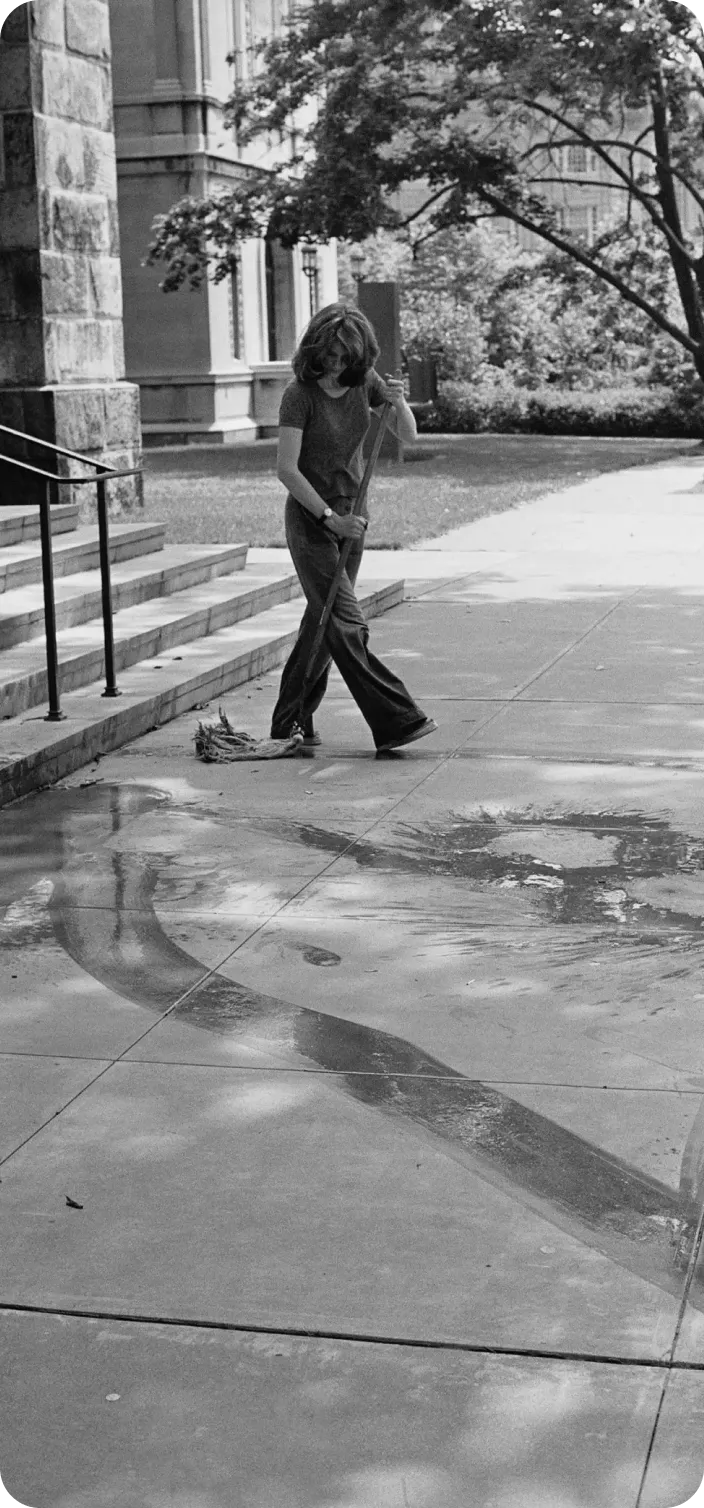
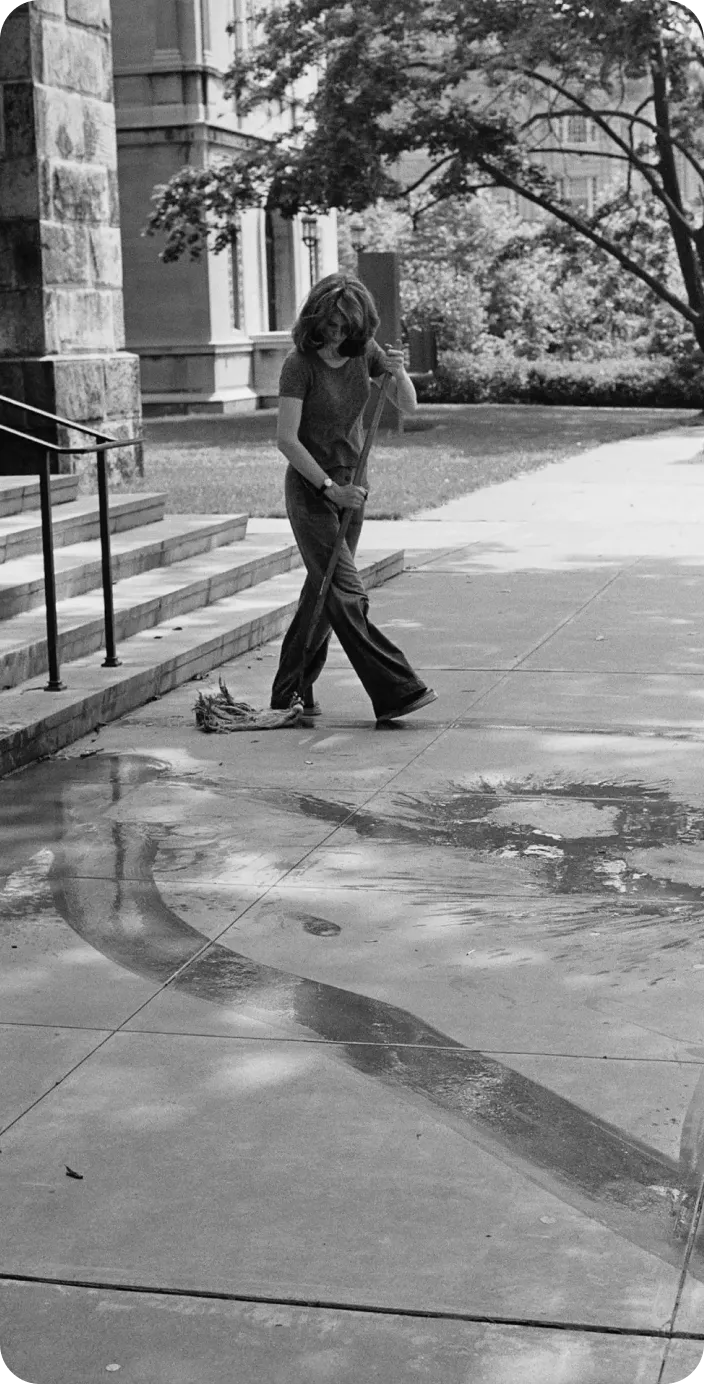
modif img 4 acc

diff --git a/src/css/pages/accueil.css b/src/css/pages/accueil.css
@@ -48,9 +48,6 @@ figure{
     gap: 0.625rem;
 }
 
-.gallery__right img{
-    margin-top: -4rem;
-}
 
 .left>p{
     font-size: var(--small-body);
